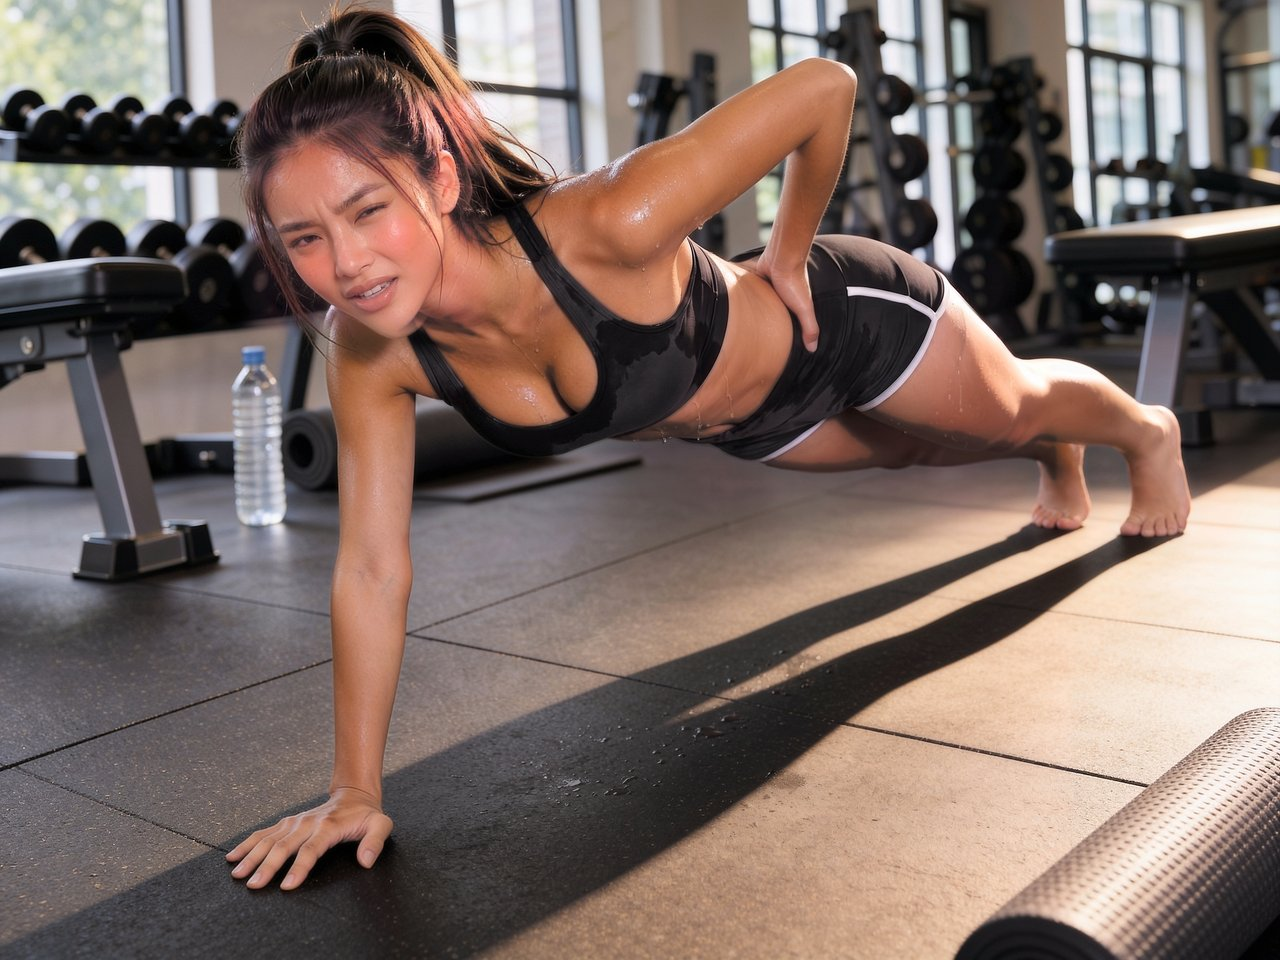
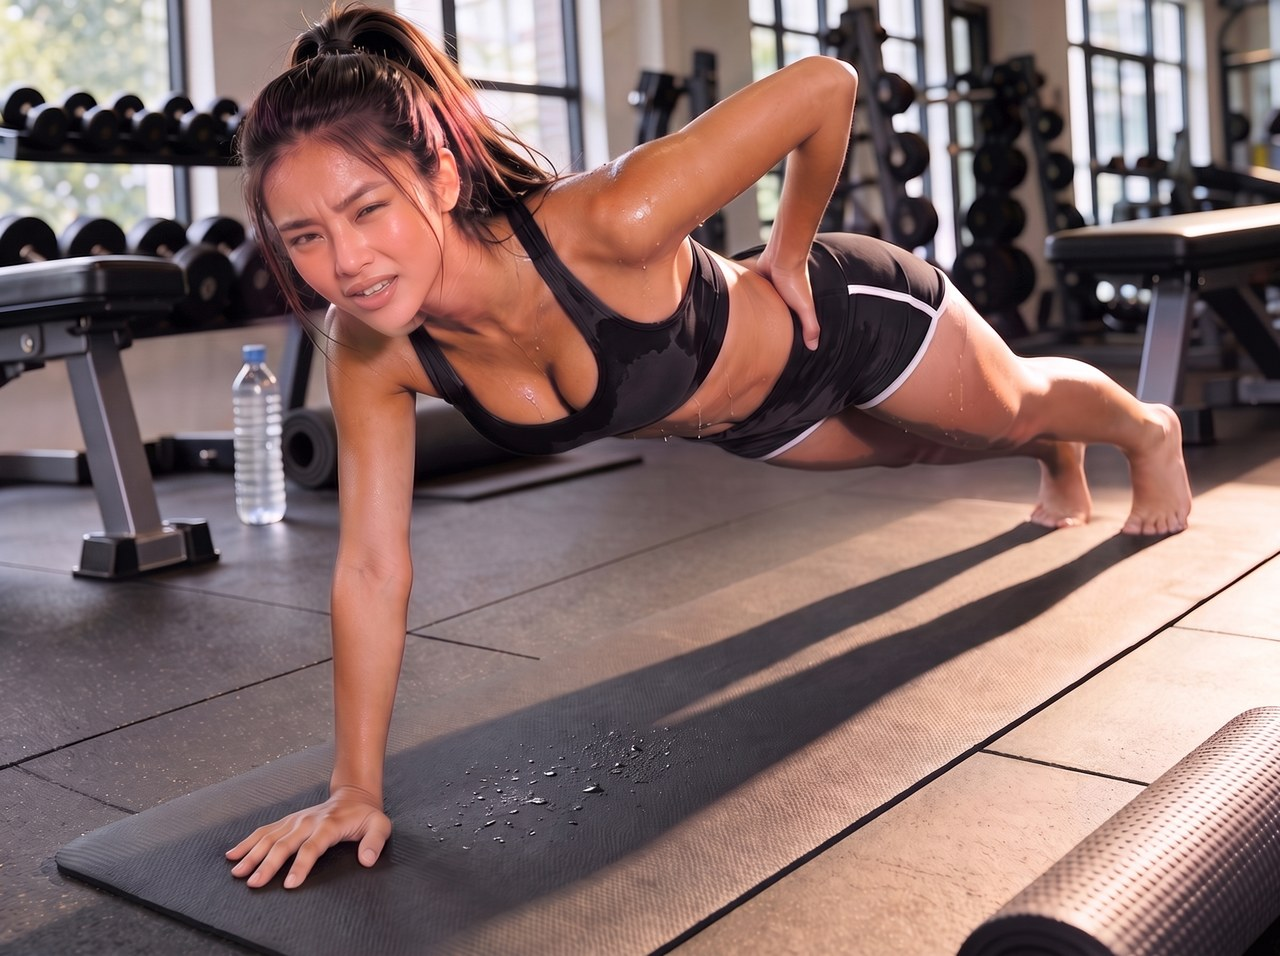
定稿＋排程：Vicky V-03 平板撐改 2 張輪播（加瑜伽墊、側躺休息）；型錄同步

diff --git a/production/modeling_runs/2026-10-12_pioneer4/catalog/index.html b/production/modeling_runs/2026-10-12_pioneer4/catalog/index.html
@@ -339,7 +339,10 @@ footer{margin-top:40px;font-size:12.5px;color:var(--muted);display:grid;gap:4px}
         <p class="pubdate" data-pub="2026-10-20T07:00:00+08:00">（10/20 發布）</p>
       </figure>
       <figure class="photo">
-        <img src="img/vicky3.jpg" alt="Vicky 第三張：健身房單手平板撐，一手撐地一手扶腰、赤腳，黑運動內衣、黑色白滾邊真理褲，滿身汗、地上有滴落的汗水，臉頰泛紅、皺眉喘氣、一眼瞇著看鏡頭" width="1280" height="960" loading="lazy">
+        <div class="pair">
+          <img src="img/vicky3.jpg" alt="Vicky 第三張：健身房黑色瑜伽墊上單手平板撐，一手撐地一手扶腰、赤腳，黑運動內衣汗濕、黑色白滾邊短褲，滿身汗、墊上有汗珠，臉頰自然泛紅、皺眉喘氣看鏡頭" width="1280" height="956" loading="lazy">
+          <img src="img/vicky3_rest.jpg" alt="Vicky 第三則之二：運動完俯拍側躺在黑色瑜伽墊上蜷縮休息，雙手交疊枕在頭下、半閉眼，運動內衣被汗浸濕，全身汗光" width="960" height="1285" loading="lazy">
+        </div>
         <p class="quote">啊⋯呼⋯嘶——呃啊啊啊⋯⋯
 快、快不行了⋯⋯好累⋯⋯
 也太久了吧⋯⋯我真的要不行了⋯⋯

diff --git a/production/modeling_runs/2026-10-12_pioneer4/POST_IDEAS_2026-10-12.md b/production/modeling_runs/2026-10-12_pioneer4/POST_IDEAS_2026-10-12.md
@@ -321,8 +321,8 @@
 - 製作師原句：「啊…呼…啊嘶…額啊啊啊….快不行了….好累…還沒好嗎⋯⋯計時的…時間…..」；執行者潤稿提 A（只調節奏）／B（加結尾吐槽），製作師選 B：「額」改「呃」、依喘氣節奏分行、結尾加「喂！你是不是偷偷按暫停了啦！」（Vicky 直來直往、把你當哥兒們）。
 - 製作師微調（同日）：第三句改「也太久了吧⋯⋯我真的要不行了⋯⋯」，結尾改「你是不是偷偷把計時器按暫停啊！💢」（拿掉 ⏱）。照錄。
 - 讀者是在旁邊幫她計時的人；喘氣聲是撐平板撐到極限，最後一句才揭曉是在等計時。
-- 配圖：`社群媒體/vicky/vicky_img3_v26.jpg`（v23 經本機清理，2026-10-14 定稿）。~~發文順序：Vicky 第 2 則（製作師 2026-10-15）~~ → **製作師 2026-10-16：改為第 5 則**（第 2 則改為 V-04）。
-- 狀態：定稿；原 2026-10-17 18:00 時段讓給 V-04，Metricool 原排程（原編號 396599123）已改為草稿（新編號 397485562，uuid 8540377358838089199，不會自動發布）。**新順序：Vicky 第 5 則**（接在 V-05 泳池短影片之後，製作師 2026-10-16）。製作師 2026-10-19 再延一天：2026-10-21 18:00 台北時間、Threads＋Instagram（Metricool 編號 399723309，uuid 8540377358838089199）。
+- 配圖（製作師 2026-10-20 改為 2 張輪播）：`社群媒體/vicky/vicky_post_plank1_mat_job2248981a.jpg`（原 v26 加黑色瑜伽墊、墊上汗、臉紅改自然）、`vicky_post_plank2_rest_job2d3c87e4.jpg`（運動完俯拍側躺休息）。原 `vicky_img3_v26.jpg` 已由第 1 張取代。~~發文順序：Vicky 第 2 則（製作師 2026-10-15）~~ → **製作師 2026-10-16：改為第 5 則**（第 2 則改為 V-04）。
+- 狀態：定稿；原 2026-10-17 18:00 時段讓給 V-04，Metricool 原排程（原編號 396599123）已改為草稿（新編號 397485562，uuid 8540377358838089199，不會自動發布）。**新順序：Vicky 第 5 則**（接在 V-05 泳池短影片之後，製作師 2026-10-16）。製作師 2026-10-19 再延一天：2026-10-21 18:00 台北時間、Threads＋Instagram。製作師 2026-10-20 改成 2 張輪播（平板撐加瑜伽墊＋運動完側躺休息），Metricool 已更新配圖，新編號 400895183（uuid 8540377358838089199），配文不變。
 
 ### V-04：第四張定稿（空中瑜伽站姿劈腿、雙手抓瑜伽布、半闔眼看鏡頭）的配文——定稿（製作師 2026-10-16 選 A、改第三句）
 

diff --git a/production/modeling_runs/2026-10-12_pioneer4/REPORT.md b/production/modeling_runs/2026-10-12_pioneer4/REPORT.md
@@ -3925,3 +3925,16 @@ Scene: cream brick wall with dark wood beams, blue sky with clouds at the top le
 - 第 1 張臉紅：本機同第 2 張做法（紅色 a 值高出部分壓到 35%、臉頰加大範圍淡暖色，避開嘴唇與眼睛）→ 跟第 2 張一致的自然泛紅 ✅（vrest/v26mat3.png）。
 - 狀態：候選，等製作師看。
 - 點數：2 點（被擋那次通常退點）。
+
+## 定稿＋排程更新（2026-10-20，製作師決定）：Vicky V-03 平板撐改 2 張輪播
+
+- 製作師（定稿前追加）：第二張服裝和身上的汗仿照第一張（上衣汗濕不夠）；之後再說上衣色差太多要回調。
+  - Nano Banana Pro，圖 1＝vp37d（上傳 `35e5f4e1`）、圖 2＝第一張（上傳 `8360ad15`）：運動內衣加汗濕深色塊、皮膚汗光加重：`2d3c87e4-ff0c-4395-ae53-2147d6d4041a`（2 點）✅。
+  - 本機回調上衣色差：運動內衣範圍（低彩度布料遮罩）內亮度往中間值收、斑塊對比降到約 35%、去色 50% → 汗濕斑塊仍在但不突兀（vrest/vp37f.png）。
+- 最終檔（JPEG 品質 95）：
+  1. `社群媒體/vicky/vicky_post_plank1_mat_job2248981a.jpg`（2400×1792；v26 加薄瑜伽墊與墊上汗、臉紅本機改自然）——取代舊檔 `vicky_img3_v26.jpg`（已刪，備份同步刪）。
+  2. `社群媒體/vicky/vicky_post_plank2_rest_job2d3c87e4.jpg`（1792×2400；俯拍側躺休息，臀部本機液化、臉紅本機修、上衣汗濕回調）。
+- 本機備份 `Documents\Luscena_KOL_定稿備份\vicky\` 同步。
+- 型錄：Vicky 平板撐那格改成兩張並排（`catalog/img/vicky3.jpg` 換新、新增 `vicky3_rest.jpg`）。
+- 排程：Metricool 貼文（原 399723309）配圖改兩張，時間不變 2026-10-21 18:00、IG＋Threads，配文不變；新編號 400895183（uuid 8540377358838089199）。圖片經 Higgsfield 上傳（media `2d64df06`、`bcfa1e8a`）。
+- 點數：2 點。
